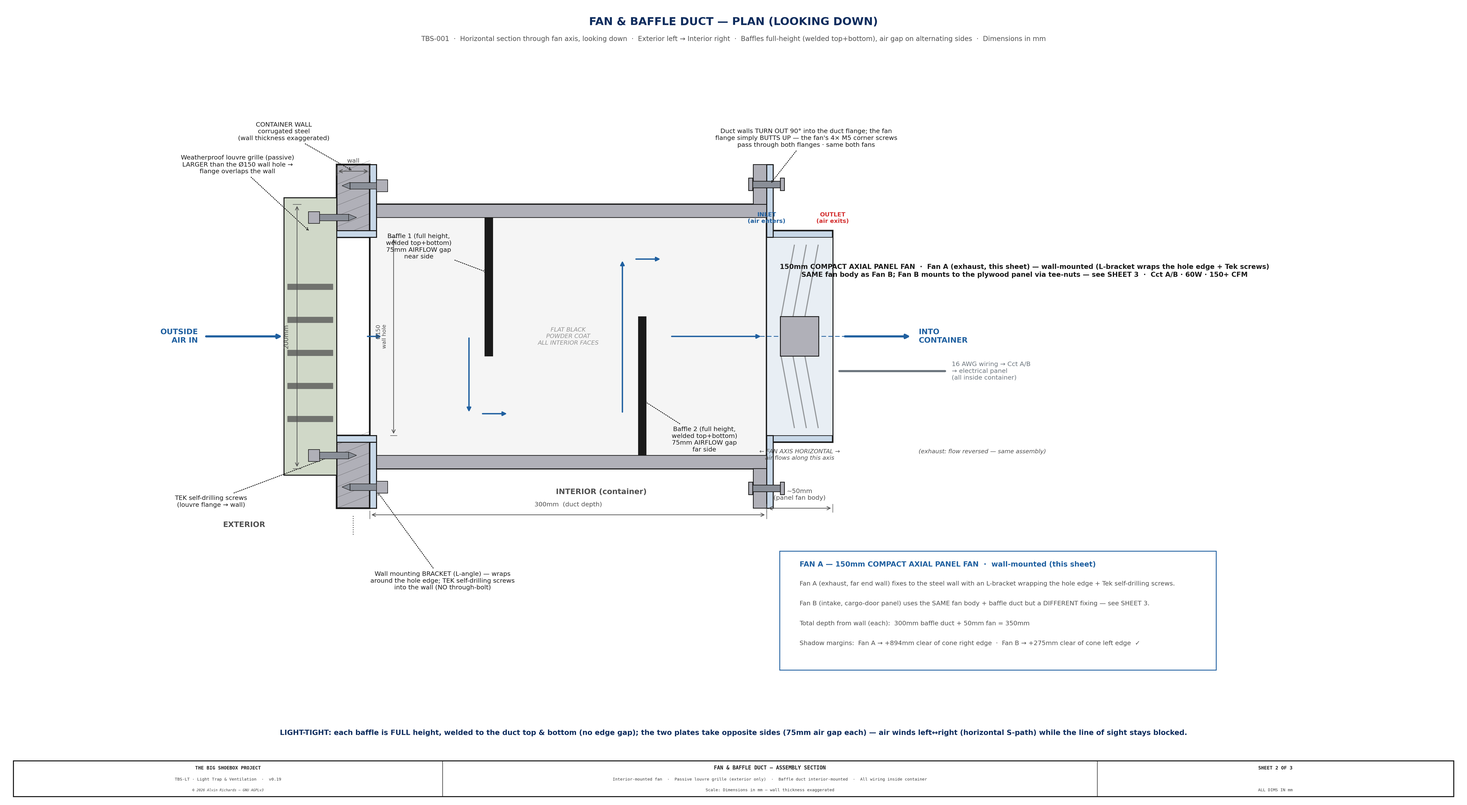
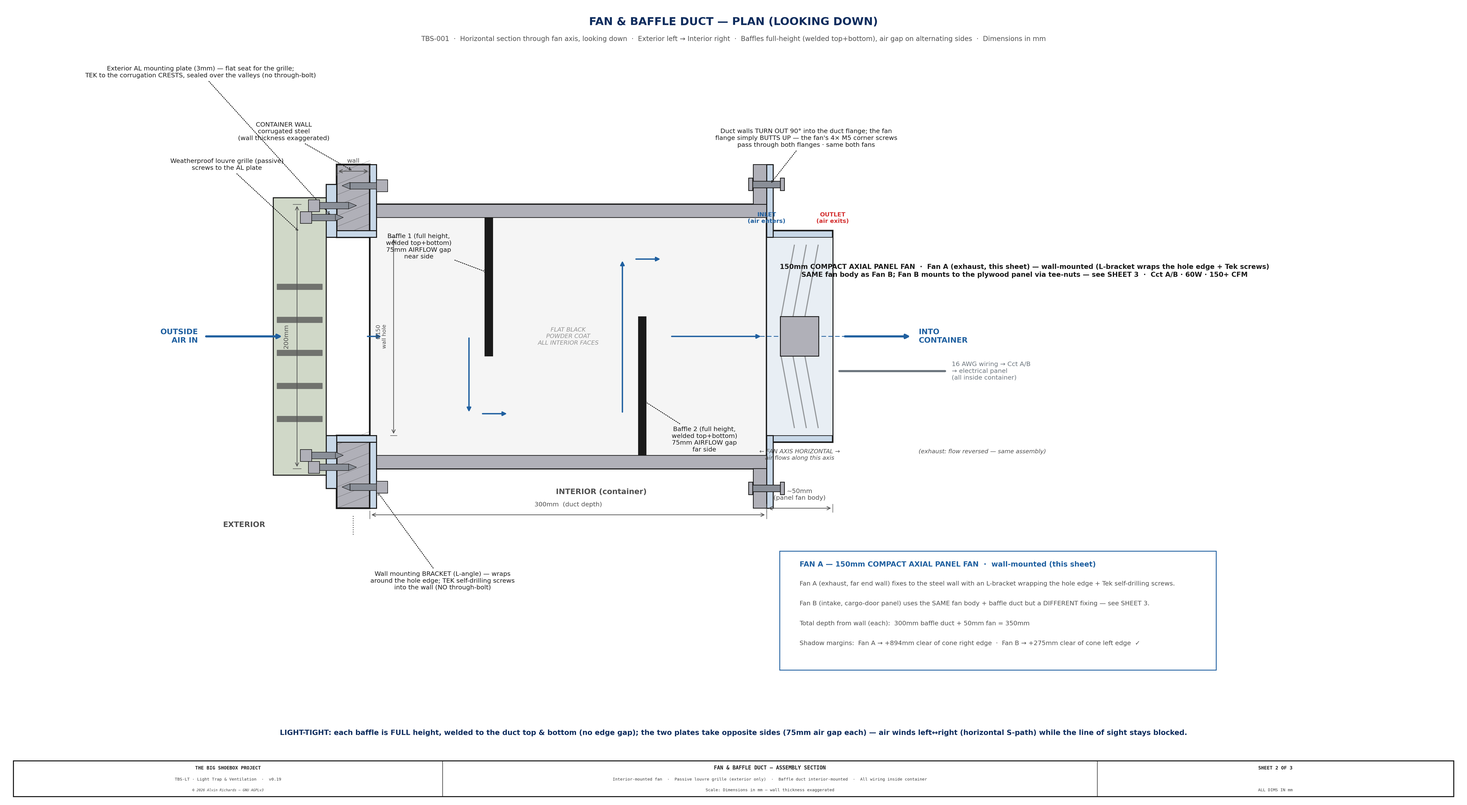
Ventilation: add Fan-A grille exterior AL mounting plate (corrugated-wall fix)
A flat louvre grille can't seat on the corrugated end wall, so add a flat ~3mm
aluminum plate on the exterior face the grille mounts to: the plate is TEK
self-drilled to the corrugation crests and sealed over the valleys (no
through-bolt), giving the grille a flat seat. Fan B is unchanged (it mounts to
flat plywood). Registry part fan-grille-al-plate (+$15/$30 ventilation);
cascaded through costing (§5b + EXPECTED ventilation 783/800/818 + grand_total
27,809/32,674/39,569), the ventilation report §4.2, and sheet 2 (drawn as a
frame open at the Ø150 hole, grille screwed to it, plate TEK'd to the crests).
All gates pass.

Changed region(s): [[0.1868, 0.2177, 0.249, 0.622], [0.1245, 0.1866, 0.1868, 0.2177]]

diff --git a/src/generators/costing.py b/src/generators/costing.py
@@ -355,6 +355,7 @@ VENTILATION = [
     point("Duct collar + hose clamp", 16), # 2026-07-27: Master Flow DSCF8 collar $8.98 + McMaster 4866N35 clamp $7.25
     point("Weatherproof duct cap", 12), # 2026-07-27: Master Flow 8DC $11.98
     LineItem("Weatherproof louvre grilles ×2 (Fan A + Fan B exterior vents)", 20, 30, 40, "2026-11-17: new — 6in louvered weatherproof wall vents on each fan's exterior face (ventilation §4.2/§4.3/§4.4, the fans' only external component); named in prose, absent from the registry. SKU pending."),
+    LineItem("Fan-A grille mounting plate (3mm Al over the corrugated wall + TEK + sealant)", 15, 22, 30, "2026-11-18: new — a flat Al plate the Fan-A louvre grille mounts to (a flat grille can't seat on corrugations); TEK-screwed to the corrugation crests + sealed over the valleys. Fan B mounts to flat plywood (no plate). SKU pending."),
     point("Deutsch DT 2-pin connectors (Fan B flex ×2)", 8),
     point("16 AWG coiled cable (Fan B flex)", 26),
     point("Cooler external power cable", 20),
@@ -1062,7 +1063,7 @@ EXPECTED = { # the figures the docs are reconciled to (this session)
     "rich": {"chem": 2735, "total": 3040, "per_print": 61}, # 2026-10-22: 9.19 m² derived. Artcraft bulk — AmFe $64.20/kg + ferricyanide $51.01/kg
     # 2026-10-22: chem tiers rescaled to the 9.19 m2 (99 sqft) active plane (now derived from IMAGE_AREA_M2) -> grand total -$20/$30/$60.
     # 2026-10-27: +$12/$16/$20 — beam-penetration EPDM foam light-seals (ll-beam-notch-seal, 4 notches).
-    "grand_total": (27794, 32659, 39554), # 2026-11-17c: −$5 — walkway std-bracket count 13→11 propagated to its nuts/washers (pre-existing stale fastener count). 2026-11-17b: +$67/$108/$150 — report-reconciliation sweep backfilled 5 parts named in reports but absent from the registry: spray manifold clips + IBC-2 Blue float switch + IBC bar-end L-cleats (§5), fan louvre grilles ×2 (§5b), right-walkway grating-bearer L-angle (§6a). 2026-11-17: +$40 — inverter DC protection backfilled into the electrical registry (was in §8 BOM, missing from parts.py). 2026-11-16b: −$32 — AWG rationalization (single 12 AWG distribution). 2026-11-16: +$5 — Circuit-C split (B′): master pump switch → 2-pole DPST. 2026-11-13: +$9 — floor-anchor self-driller re-sourced (F14C325FDC → McMaster 90822A536, $1.30 ea was $1.02): walkway +$6, ibc-frame +$3. 2026-11-09: −$7 — M8 fastener standardization (film −$8 / shelf +$1): M8×25 304 SS onto one SKU 92314A711 (50-pack, retired steel dup 91310A535), M8 flat washer onto 98689A673 (retired dup 91166A270). 2026-11-07: +$12 — M12×30 foot/leg bolts (×36) firmed to McMaster 91280A716 ($0.85 ea, was ~$0.50): ibc-frame +$5, walkway +$7. # 2026-11-06b: apron draw latches 8 installed as ONE 10-pack = $9.85 total (10-pack price). 2026-11-06: −$83 panel apron latch 1619A74 cam → 1590A13 draw latch. 2026-11-06: −$83/$83/$83 panel apron latch 1619A74 cam → 1590A13 draw latch (4× $9.85). 2026-11-05b: +$74/$62/$50 panel apron latch → reuse 1619A74 (handle INSIDE, convention-matched; 2D+3D reconciled). 2026-11-05: −$11/$20/$26 panel apron fold-down → pull-out corner apron (Sheet 16 redesign). 2026-10 reconcile: −$79/$102/$125 (walkway std-bracket count 13→11 corrected to the 3D). 2026-10-12: +$138/$204/$270 — floor anchoring redesigned to self-tapped sub-plates (strongbacks) for the IBC feet (+$46/$68/$90) + the walkway floor-legs (+$113/$156/$199): container-floor cross-members aren't standardized, so feet/legs bolt to a plate that self-taps into whatever members it spans. 2026-10-10: +$21/$21/$20 — IBC J1 foot anchors reconciled to 4× M12/foot (owner-confirmed) + spray $1 rounding realign. 2026-10-07: +$20/$36 electrical conduit-support-clips. # 2026-10-07: +$27 led-channel 6→7 (Circuit-G 4th run over the tray center). 2026-10-04: +$1/$2/$2 — P-clips 85→87 (corridor blue frame clips). 2026-10-03c: +$3/$5/$6 — P-clips 80→86 (drain-riser spine extended toward the end wall). 2026-10-03b: +$19/$26/$32 — P-clips 46→80 (pinhole-panel audit). 2026-10-03: +$4/$5/$7 — P-clips 39→46 (3rd clamp rows on the raised corridor boards + P-01 straddle clamps). (earlier cost history, 2026-09 and before: RELEASE.md + git log).
+    "grand_total": (27809, 32674, 39569), # 2026-11-18: +$15 — Fan-A grille mounting plate (3mm Al over the corrugation; §5b band derives from the ventilation low). 2026-11-17c: −$5 — walkway std-bracket count 13→11 propagated to its nuts/washers (pre-existing stale fastener count). 2026-11-17b: +$67/$108/$150 — report-reconciliation sweep backfilled 5 parts named in reports but absent from the registry: spray manifold clips + IBC-2 Blue float switch + IBC bar-end L-cleats (§5), fan louvre grilles ×2 (§5b), right-walkway grating-bearer L-angle (§6a). 2026-11-17: +$40 — inverter DC protection backfilled into the electrical registry (was in §8 BOM, missing from parts.py). 2026-11-16b: −$32 — AWG rationalization (single 12 AWG distribution). 2026-11-16: +$5 — Circuit-C split (B′): master pump switch → 2-pole DPST. 2026-11-13: +$9 — floor-anchor self-driller re-sourced (F14C325FDC → McMaster 90822A536, $1.30 ea was $1.02): walkway +$6, ibc-frame +$3. 2026-11-09: −$7 — M8 fastener standardization (film −$8 / shelf +$1): M8×25 304 SS onto one SKU 92314A711 (50-pack, retired steel dup 91310A535), M8 flat washer onto 98689A673 (retired dup 91166A270). 2026-11-07: +$12 — M12×30 foot/leg bolts (×36) firmed to McMaster 91280A716 ($0.85 ea, was ~$0.50): ibc-frame +$5, walkway +$7. # 2026-11-06b: apron draw latches 8 installed as ONE 10-pack = $9.85 total (10-pack price). 2026-11-06: −$83 panel apron latch 1619A74 cam → 1590A13 draw latch. 2026-11-06: −$83/$83/$83 panel apron latch 1619A74 cam → 1590A13 draw latch (4× $9.85). 2026-11-05b: +$74/$62/$50 panel apron latch → reuse 1619A74 (handle INSIDE, convention-matched; 2D+3D reconciled). 2026-11-05: −$11/$20/$26 panel apron fold-down → pull-out corner apron (Sheet 16 redesign). 2026-10 reconcile: −$79/$102/$125 (walkway std-bracket count 13→11 corrected to the 3D). 2026-10-12: +$138/$204/$270 — floor anchoring redesigned to self-tapped sub-plates (strongbacks) for the IBC feet (+$46/$68/$90) + the walkway floor-legs (+$113/$156/$199): container-floor cross-members aren't standardized, so feet/legs bolt to a plate that self-taps into whatever members it spans. 2026-10-10: +$21/$21/$20 — IBC J1 foot anchors reconciled to 4× M12/foot (owner-confirmed) + spray $1 rounding realign. 2026-10-07: +$20/$36 electrical conduit-support-clips. # 2026-10-07: +$27 led-channel 6→7 (Circuit-G 4th run over the tray center). 2026-10-04: +$1/$2/$2 — P-clips 85→87 (corridor blue frame clips). 2026-10-03c: +$3/$5/$6 — P-clips 80→86 (drain-riser spine extended toward the end wall). 2026-10-03b: +$19/$26/$32 — P-clips 46→80 (pinhole-panel audit). 2026-10-03: +$4/$5/$7 — P-clips 39→46 (3rd clamp rows on the raised corridor boards + P-01 straddle clamps). (earlier cost history, 2026-09 and before: RELEASE.md + git log).
     "walkway": (2155, 2619, 3107), # 2026-11-17b: −$5 — std-bracket count 13→11 propagated to its nuts/washers (nuts/split 59→53, flat 236→212). 2026-11-17: +$25/$50/$75 — right-walkway grating-bearer L-angle (walkway-right-bearer; §8.1, absent from cut list + registry). 2026-11-13: +$6 — floor-anchor self-driller re-sourced (F14C325FDC → McMaster 90822A536, #14×3½ 410 SS $1.30 ea, was $1.02). 2026-11-07: +$7 — 20× M12×30 leg bolts firmed (91280A716 $0.85 ea). # 2026-10 reconcile: −$79/$102/$125 — std cantilever brackets corrected 13→11 (3 near + 8 far; the 5 near-wide bays are widened brackets) + reinf ×13→×11 + M12 ×59→53, matching the 3D station math. 2026-10-12: +$113/$156/$199 — floor-leg anchoring → one continuous self-tapped sub-plate (strongback) + self-drilling TEKs + leg→plate bolts (replaces 20× #14 floor screws; cross-member pitch not standardized). 2026-09-07: +$9 — M12 wall bolts standardized to ×70 (single zinc wall length). 2026-08-19: −$116/$125/$135 — IBC-owned center arms + J6 hardware + half-lap screws moved to ibc-frame (§5), per the ownership boundary. 2026-08-16d: +$55/+$43/+$31 — arm FIRM price (Metal Supermarkets $91.32/36in cut vs the $36-60 est). 2026-08-16c: −$10/−$13/−$15 — J6 4→2 bolts/arm (central column) less 4 M12×100 + 4 crush sleeves. 2026-08-16b: +$2/+$3/+$4 — 4× #14 TEK half-lap hold-down screws. 2026-08-16: +$62/+$85/+$108 — RWK center arms hollow tube → SOLID 2×1 flat bar (split out) + J6 end-plate hardware (8× M12×100 + 4 plates + 8 crush sleeves) less 4 arm-clamp M12×70. # 2026-08-07 (#26): +$107/+$123 — RWK frame 2×⅞ (non-stock) → 2×1×0.120 real MetalsDepot price + floor-leg arms 2×1. # 2026-07-23b: bump extended 2nd rib toward IBC — 1 near bracket std->widened (+$12/$22)
     "water": (6952, 7633, 8320), # 2026-11-17: +$22/$38/$55 — spray manifold clips +$8/$11/$15, IBC-2 float switch +$8/$14/$20, IBC bar-end L-cleats +$6/$13/$20 (all named in-report, absent from the registry). 2026-11-13: +$3 — IBC floor-anchor self-driller re-sourced (F14C325FDC → McMaster 90822A536). 2026-11-07: +$5 — 16× M12×30 IBC foot bolts firmed (91280A716 $0.85 ea). # 2026-10-12: +$25/$48/$71 — IBC J1 floor anchoring → self-tapped sub-plate + self-drilling TEKs + foot→plate bolts (replaces the M12×70 floor thru-bolts; cross-member pitch not standardized). 2026-10-10: +$21/$21/$20 — IBC J1 foot anchors #14 self-driller → M12×70 thru-bolt + nuts/washers (owner-confirmed 4× M12/foot) + spray high $1 rounding realign. 2026-10-04: +$1/$2/$2 — pipe-support-clips 85→87 (corridor blue frame clips: suction loop-back + supply-trunk mouth crossing). 2026-10-03c: +$3/$5/$6 — pipe-support-clips 80→86 (spine extended toward the end wall → end-port clips). 2026-10-03b: +$19/$26/$32 — pipe-support-clips 46→80 (pinhole-panel audit). 2026-10-03: +$4/$5/$7 — pipe-support-clips 39→46 (far+near-lower each gained a 3rd clamp row on the raised corridor boards, +2 straddling the P-01 suction valve). 2026-09-07: +$2 ibc-frame — J3 wall-hanger bolts ×65→×70 (single zinc wall length). 2026-09-07: filter ply-mount 5/16→1/4 firmed (screw 90272A552 + washer 90850A100, −$10 net) + #14 TEK firmed (90822A620). 2026-08-19: +$116/$125/$135 ibc-frame — the IBC-owned walkway center arms + J6 connection reconciled from walkway §6a. 2026-08-18b: +$10/$15/$20 ibc-frame (16 L-cleat nut backing plates). 2026-08-18: −$16/$15/$16 ibc-frame (J2 corridor cleat → L-angle + 1 horizontal bolt). ... (earlier cost history: RELEASE.md + git log).
     "container": (2300, 3300, 4300),
@@ -1074,7 +1075,7 @@ EXPECTED = { # the figures the docs are reconciled to (this session)
     "optics": (35, 52, 70), # 2026-09-23: retired the standard Ø600 pinhole/lens plate (superseded by the Ø80-carrier disc holder). §3 Optics is now the pinhole-WALL interface only (wall-frame adapter + dark slide); the pinhole element + retaining ring + mount bolts moved to front-board (fixes the pinhole double-count).
     "film": (4090, 4316, 4548), # 2026-11-09: −$8 — M8×25 fastener standardization: SS SKU 92314A711 pack 25→50 (per-each halves, −$7) + the ×8 right-rail fixing merged onto it (retired dup steel 91310A535, −$1). 2026-09-07: +$4 — wall-sandwich bolts ×65→×70 (single zinc wall length). 2026-09-06: −$1 — M8 J1/J2 bolt firmed M8×20→M8×25 (92314A711, cheaper pack). 2026-09-06: +$2 — M8 J1/J2 → through-bolt + nut (32 M8 nuts added). 2026-09-06: +$11 — M4 nut/M8 bolt/M8 flat washer SKUs firmed (up from est). 2026-09-06: +$40 — corner mechanism fasteners itemized (M4 cam-clamp ×24 + M8 J1/J2 ×32 + ACM→frame TEK ×30; several SKUs est pending). 2026-09-05: +$32 — skate axle-saddle retention itemized (16× 8992K794 saddles + 32× M6×20 91287A137 + 32× M6 nyloc; retires the M5 onto the shared M6 family). 2026-09-05: −$76 to −$135 — corner L-plate re-spec'd from a formed ¼ 6×8 plate ($58.90 ea firm ×4=$236) to stock 4×4×¼ 304 angle cut to length ($25–40/pc, re-quote); cheaper, no press-brake. 2026-08-20: −$161 — film-plane wall-seat saddles reconciled 6→4 (far-LEFT ends land on the pivot post; back-plate lengthened for the gusset; +2 far-left flange brackets w/ 8 M12). 2026-08-13: −1 — the M8 wall-fixing (bolt-m8-fixing) moved to the firm 304 A2 SKU 91310A535 $13.91/50, below the retired zinc placeholder. 2026-08-13: Belden SSNBUJ750x3/8KB needle-bearing keyed+booted U-joint (Grainger 41D816 $252.13 ea) replaces the plain UJ-SS750x375 + separate 806VF1 boot -> +~$403. # 2026-08-10 (corner blueprint): +$135 — cross-slide bars grown ~250→~345/365mm to hold ±40°/±28° (2× 8ft 304 bar, was 1×). 2026-08-01: corner L-plates firm Metal Supermarkets $58.90 ea ×4 = $236 (was $152-208 est). 2026-07-31: Ruland->Belden U-joint -$653 # 2026-07-27: blackout poly → Film-Gard 10ft 4-mil $40.12 (was 6-mil $66–70, −$26/−$30); Gorilla tape firm $9.94 ×6; saddle M8 thumbscrews ×12 McMaster $11.80. (2026-07-22: clamp → off-the-shelf nylon spring clamps + HDPE filler.)
     "front-board": (FRONT_BOARD_MID, FRONT_BOARD_MID, FRONT_BOARD_HIGH), # pinhole disc holder BOM — reconciles to parts.system_total('front-board'); standalone module (not a numbered SECTION), so not in _SECTION_SYSTEMS.
-    "ventilation": (768, 778, 788), # 2026-11-17: +$20/$30/$40 — weatherproof louvre grilles ×2 (fan-louvre-grille; §4.2/§4.3/§4.4, absent from the registry). 2026-07-27: canopy 1" EMT firm ($206 — conduit $21.86×6, couplings $1.45×8, flange 4-pack $16.29, Halex 94510 elbows $11.85×4); evap cooler MC18MT $109; duct collar+clamp $16.23.
+    "ventilation": (783, 800, 818), # 2026-11-18: +$15/$22/$30 — Fan-A grille mounting plate (3mm Al over the corrugation + TEK + sealant; a flat grille can't seat on corrugations). 2026-11-17: +$20/$30/$40 — weatherproof louvre grilles ×2 (fan-louvre-grille; §4.2/§4.3/§4.4, absent from the registry). 2026-07-27: canopy 1" EMT firm ($206 — conduit $21.86×6, couplings $1.45×8, flange 4-pack $16.29, Halex 94510 elbows $11.85×4); evap cooler MC18MT $109; duct collar+clamp $16.23.
     "power": (3429, 3472, 3515), # 2026-11-17: +$40 inverter DC protection (40A ANL fuse + holder + dedicated DC disconnect) backfilled — was in electrical-report §8 but missing from parts.py (required by safety-report §7.6 rule 4). 2026-11-16b: −$32 AWG rationalization (single 12 AWG distribution gauge). 2026-11-16: +$5 Circuit-C split (B′) — master pump switch → 2-pole DPST ($7.99→$12.99). 2026-10-07: +$20/$36 conduit-support-clips (45 electrical P-clips/saddles). # 2026-10-07: +$27 led-channel 6→7 (Circuit-G 4th run, tray-center; strip stays 2 reels, rewire 12AWG/15A cost-neutral). 2026-09-30: −$68 EP backboard now nests on the chem-shelf UV-white sheet (no own sheet). 2026-07-31: mppt-charge-fuse itemized (Powerwerx 5005 block + ANL60), dielectric-grease $8.99, powerpole housings $0.55. 2026-07-28: external power panel FINAL — fabricated flanged wall-penetration box + flashing (weatherproof components exposed on the face, wired from inside), disconnect relocated to the EP. McMaster IP enclosure + wall gland retired (−$229/−$182). §5a authoritative subtotal
 }
 

diff --git a/src/generators/generate_ventilation_diagram.py b/src/generators/generate_ventilation_diagram.py
@@ -490,24 +490,34 @@ def draw_sheet2():
         (WALL_X + WALL_T / 2, wz1 - 5), (WALL_X - 40, wz1 + 25))
     draw_dim_v(ax, WALL_X + WALL_T + 18, HB, HT, f"Ø{FAN_DIAM}\nwall hole", offset=8, fs=6.5, zorder=10, color=C_DIM)
 
-    # ── Weatherproof louvre grille — LARGER than the Ø150 hole so its flange overlaps the wall; fixed
-    #    with self-drilling TEK screws through the flange margins into the wall (passive, no fan) ──
-    GL_MARG = 30                                             # flange margin beyond the hole (for the Tek screws)
+    # ── Exterior AL mounting plate — a flat 3mm aluminum plate the louvre grille mounts to (a flat
+    #    grille can't seat on corrugations). TEK self-drilled to the corrugation CRESTS + sealed over the
+    #    valleys (no through-bolt — a corrugated wall can't be cleanly bolted through). ──
+    PLT_T   = 8                                              # plate thickness (exaggerated, real ~3mm)
+    GL_MARG = 30                                             # flange / plate margin beyond the hole
+    PLT_Z   = HB - GL_MARG - 10                              # plate spans a little beyond the grille
+    PLT_H   = (HT + GL_MARG + 10) - PLT_Z
+    for z0, z1 in [(PLT_Z, HB), (HT, PLT_Z + PLT_H)]:       # plate FRAME — open at the Ø150 hole for airflow
+        draw_rect(ax, WALL_X - PLT_T, z0, PLT_T, z1 - z0, fc=C_ALUM, lw=1.3, zorder=5)
+    for tz in (PLT_Z + 16, PLT_Z + PLT_H - 16):             # TEK: plate → wall CRESTS (sealed over valleys)
+        tek_screw(ax, WALL_X - 2, tz, 22, d=5, head=-1)
+    # ── Weatherproof louvre grille — screws to the flat AL plate (LARGER than the Ø150 hole) ──
+    GX   = WALL_X - PLT_T                                    # grille mounts on the plate's exterior face
     GL_Z = HB - GL_MARG                                      # louvre bottom (below the hole)
-    GL_H = (HT + GL_MARG) - GL_Z                             # louvre height > hole → flange overlaps the wall
-    draw_rect(ax, WALL_X - GL_W, GL_Z, GL_W, GL_H, fc="#D0D8C8", lw=1.2, zorder=6)
+    GL_H = (HT + GL_MARG) - GL_Z                             # louvre height > hole
+    draw_rect(ax, GX - GL_W, GL_Z, GL_W, GL_H, fc="#D0D8C8", lw=1.2, zorder=6)
     slat_h = 4
     for i in range(5):                                       # slats across the OPENING (hole) region
         slat_z = HB + (HT - HB) / 6 * (i + 0.5)
         ax.add_patch(mpatches.FancyBboxPatch(
-            (WALL_X - GL_W + 3, slat_z - slat_h / 2), GL_W - 6, slat_h,
+            (GX - GL_W + 3, slat_z - slat_h / 2), GL_W - 6, slat_h,
             boxstyle="round,pad=0.3", fc=C_DIM, ec="none", zorder=7, alpha=0.75))
-    for tz in (GL_Z + GL_MARG / 2, GL_Z + GL_H - GL_MARG / 2):   # TEK screws through the flange → wall
-        tek_screw(ax, WALL_X - 2, tz, 22, d=5, head=-1)
-    ann(ax, "Weatherproof louvre grille (passive)\nLARGER than the Ø150 wall hole →\nflange overlaps the wall",
-        (WALL_X - GL_W / 2, HT + 4), (WALL_X - GL_W / 2 - 55, HT + 55))
-    ann(ax, "TEK self-drilling screws\n(louvre flange → wall)",
-        (WALL_X - 2, GL_Z + GL_MARG / 2), (WALL_X - 95, GL_Z - 20))
+    for tz in (GL_Z + GL_MARG / 2, GL_Z + GL_H - GL_MARG / 2):   # TEK: grille flange → AL plate
+        tek_screw(ax, GX - 2, tz, 18, d=5, head=-1)
+    ann(ax, "Weatherproof louvre grille (passive)\nscrews to the AL plate",
+        (GX - GL_W / 2, HT + 4), (GX - GL_W / 2 - 55, HT + 55))
+    ann(ax, "Exterior AL mounting plate (3mm) — flat seat for the grille;\nTEK to the corrugation CRESTS, sealed over the valleys (no through-bolt)",
+        (WALL_X - PLT_T / 2, HT + 16), (WALL_X - PLT_T - 95, 450))
 
     # ── Baffle duct housing — the top & bottom walls TURN OUT 90° at the fan end to form the duct flange ──
     draw_rect(ax, DX, DZ, DD, DH, fc="#F5F5F5", lw=2.0, zorder=3)

diff --git a/src/generators/parts.py b/src/generators/parts.py
@@ -149,6 +149,9 @@ PARTS: list[Part] = [
     Part("fan-louvre-grille", "Weatherproof louvre grille, 6in (Fan A + Fan B exterior vents)", "ducting-ventilation",
          "ventilation", 2, "ea", 10, 20, "Home Depot", "Amazon",
          spec="6in (150mm) louvered weatherproof wall vent with insect screen on the exterior face of each fan penetration — the fans' only external component (ventilation-report §4.2/§4.3/§4.4). ×2 (Fan A + Fan B). SKU pending — source a 6in louvered weatherproof vent cover; $10–20 ea est, confirm at order."),
+    Part("fan-grille-al-plate", "Fan-A grille mounting plate — 3mm aluminum over the corrugated wall", "ducting-ventilation",
+         "ventilation", 1, "ea", 15, 30, "Metal Supermarkets", "Amazon",
+         spec="Flat ~250×250×3mm 6061 aluminum plate on the EXTERIOR face at the Fan-A sealed-end-wall penetration (Fan B mounts to flat plywood — no plate needed). A flat louvre grille can't seat on corrugations, so the plate gives it a flat mounting face: it is #14 TEK self-drilled to the corrugation CRESTS with a weatherproof silicone/flashing bead bedding it over the valleys (no through-bolt — the corrugated wall can't be cleanly bolted through), and the grille then screws to the plate. Est $15–30 incl. TEK screws + sealant; SKU pending — confirm at order."),
     Part("deutsch-dt-2pin", "Deutsch DT 2-pin connectors (Amphenol AT2PS-CKIT)", "electrical-distribution",
          "ventilation", 2, "set", 4, 4, "Waytek Wire", part_no="AT2PS-CKIT", url="https://www.waytekwire.com/product/amphenol-sine-systems-at2ps-ckit-2-pin",
          spec="Amphenol AT2PS-CKIT 2-pin connector kit (DT-compatible), IP67 — Fan B flex connector (×2 sets). Same part as deutsch-dt-2pin-elec. $4/set est — confirm at order."),

diff --git a/docs/project-cost-breakdown.md b/docs/project-cost-breakdown.md
@@ -20,7 +20,7 @@
 | **4. Film plane mechanism (4-corner U-channel + acetal skate + U-joint, incl. wall-seat saddles)** | $4,090 | $4,316 | $4,548 |
 | **5. Processing water system (incl. tray, spray bar, IBC stacking frame)** | $6,952 | $7,633 | $8,320 |
 | **5a. Power & electrical system (solar · 1× LiFePO4 · MPPT · distribution · lighting · protection · master pump switch)** | $3,429 | $3,472 | $3,515 |
-| **5b. Ventilation & cooling system (2 fans · evap cooler **+ 12V→120V inverter** · light-safe baffle-duct fab · shade canopy)** | $768 | $828 | $918 |
+| **5b. Ventilation & cooling system (2 fans · evap cooler **+ 12V→120V inverter** · light-safe baffle-duct fab · shade canopy)** | $783 | $843 | $933 |
 | **6. Housed revolving-door light lock (plastic-skin custom fabrication)** | $3,156 | $3,667 | $4,175 |
 | **6a. Perimeter walkway (4 sections + drum-exit punch-out)** | $2,155 | $2,619 | $3,107 |
 | **6b. Panel swing pivot + fixed door frame (Ø89 post + bearings + cage + wall stays + rail saddles)** | $1,250 | $1,490 | $1,730 |
@@ -29,7 +29,7 @@
 | **7. Printmaking — 50 prints (cyanotype; Low=Lean, Mid=Standard, High=Rich tier)** | $1,230 | $1,680 | $3,040 |
 | **8. Transportation (per deployment)** | $300 | $750 | $2,000 |
 | **9. Licenses & permits** | $220 | $790 | $1,620 |
-| **TOTAL (excl. own transport, CDL, lens)** | **$27,794** | **$32,659** | **$39,554** |
+| **TOTAL (excl. own transport, CDL, lens)** | **$27,809** | **$32,674** | **$39,569** |
 <!-- END costing:scenario -->
 
 *Line 7 (cyanotype printmaking) is now re-summed into the TOTAL on the **Mike Ware New Cyanotype** chemistry (ferric ammonium oxalate) + corrected ~$300 substrate: **Low = Lean ⅓-Ware ($1,250), Mid = Standard ½-Ware ($1,710), High = Rich full-Ware ($3,100)** — matching §7.1 and the master shopping list §9. The tier is pinned by the [Sensitizer Trials](sensitizer-trials.md).*
@@ -511,7 +511,7 @@ Permit requirements vary by jurisdiction. Estimates below are based on general k
 | Film plane mechanism (4-corner U-channel + U-joint, incl. wall-seat saddles) | $4,090 |
 | Water system (incl. processing tray, spray bar, IBC stacking frame) | $6,952 |
 | Power & electrical system (solar · 1× LiFePO4 · distribution · lighting · protection · master pump switch) | $3,429 |
-| Ventilation & cooling system (2 fans · evap cooler + inverter · light-safe baffle-duct fab · shade canopy) | $768 |
+| Ventilation & cooling system (2 fans · evap cooler + inverter · light-safe baffle-duct fab · shade canopy) | $783 |
 | Revolving drum light trap (plastic-skin custom fabrication) | $3,156 |
 | Perimeter walkway (4 sections, removable, GRP grating) | $2,155 |
 | Panel swing pivot + fixed door frame (Ø89 pivot + bearings + cage + wall stays + saddles + door frame) | $1,250 |
@@ -520,7 +520,7 @@ Permit requirements vary by jurisdiction. Estimates below are based on general k
 | Cyanotype chemistry + substrate (50 prints) | $1,230 |
 | Transport per deployment (local) | $400 |
 | Permits (minimal) | $50 |
-| **Scenario A total** | **~$27,224** |
+| **Scenario A total** | **~$27,239** |
 <!-- END costing:scenario-a -->
 
 ### Scenario B — Recommended build, regional deployment
@@ -534,7 +534,7 @@ Permit requirements vary by jurisdiction. Estimates below are based on general k
 | Film plane mechanism (4-corner U-channel + U-joint + wall-seat saddles) | $4,316 |
 | Water system (incl. processing tray, spray bar, IBC stacking frame) | $7,633 |
 | Power & electrical system (solar · 1× LiFePO4 · distribution · lighting · protection · master pump switch) | $3,472 |
-| Ventilation & cooling system (2 fans · evap cooler + inverter · light-safe baffle-duct fab · shade canopy) | $828 |
+| Ventilation & cooling system (2 fans · evap cooler + inverter · light-safe baffle-duct fab · shade canopy) | $843 |
 | Revolving drum light trap (plastic-skin custom fabrication) | $3,667 |
 | Perimeter walkway (4 sections, removable, GRP grating) | $2,619 |
 | Panel swing pivot + fixed door frame (Ø89 pivot + bearings + cage + wall stays + saddles + door frame) | $1,490 |
@@ -544,7 +544,7 @@ Permit requirements vary by jurisdiction. Estimates below are based on general k
 | Rodenstock Apo-Ronar 1,200mm lens | $800 |
 | Transport per deployment (50–100 miles) | $900 |
 | Permits (typical public land) | $300 |
-| **Scenario B total (excl. CDL)** | **~$32,969** |
+| **Scenario B total (excl. CDL)** | **~$32,984** |
 <!-- END costing:scenario-b -->
 
 ### Scenario C — Full production, own transport, CDL
@@ -552,11 +552,11 @@ Permit requirements vary by jurisdiction. Estimates below are based on general k
 <!-- BEGIN costing:scenario-c -->
 | Item | Cost |
 |------|------|
-| Scenario B build (less the $900 commercial transport, replaced here by owned transport) | $32,069 |
+| Scenario B build (less the $900 commercial transport, replaced here by owned transport) | $32,084 |
 | CDL Class A training + medical + DMV | $4,500 |
 | QuickLoadz self-loading trailer | $35,000 |
 | Ford F-350+ pickup (if needed) | $50,000–$80,000 (new) |
-| **Scenario C total** | **~$121,569–$151,569** |
+| **Scenario C total** | **~$121,584–$151,584** |
 <!-- END costing:scenario-c -->
 
 *Own transport only makes sense if the camera will be deployed frequently. For fewer than 60 moves, commercial hire is cheaper.*

diff --git a/docs/cost-analysis-report.md b/docs/cost-analysis-report.md
@@ -11,7 +11,7 @@ capital from recurring/consumable spend, and ranks the realistic savings levers.
 
 All figures are the **mid-column** estimates from the
 [Cost Breakdown](project-cost-breakdown.md) (the itemized source of truth); the build
-mid-total is **~<!-- BEGIN costing:ca-mid-total -->$32,659<!-- END costing:ca-mid-total -->**.
+mid-total is **~<!-- BEGIN costing:ca-mid-total -->$32,674<!-- END costing:ca-mid-total -->**.
 
 ---
 
@@ -24,13 +24,13 @@ recurs or is consumed — savings strategy is different for each.
 <!-- BEGIN costing:ca-buckets -->
 | Bucket | Mid | What it is |
 |---|--:|---|
-| **Capital build** (one-time hardware) | **$29,439** | The systems you build once — this is where build-savings live |
+| **Capital build** (one-time hardware) | **$29,454** | The systems you build once — this is where build-savings live |
 | Consumable (per 50-print batch) | $1,680 | Cyanotype chemistry + substrate (Standard ½-Ware) — recurs every batch |
 | Recurring (per deployment) | $750 | Commercial-hire transport |
 | Soft / regulatory | $790 | Licenses & permits |
 <!-- END costing:ca-buckets -->
 
-Build-savings work on the **<!-- BEGIN costing:ca-capital -->$29,439<!-- END costing:ca-capital --> capital**. The <!-- BEGIN costing:ca-consumable -->$1,680<!-- END costing:ca-consumable --> consumable is attacked
+Build-savings work on the **<!-- BEGIN costing:ca-capital -->$29,454<!-- END costing:ca-capital --> capital**. The <!-- BEGIN costing:ca-consumable -->$1,680<!-- END costing:ca-consumable --> consumable is attacked
 separately (bulk chemistry, cheaper substrate) because it repeats every batch and
 quickly dominates lifetime cost.
 
@@ -51,7 +51,7 @@ Capital systems ranked by mid cost:
 | **Perimeter walkway** | $2,619 | 9% | GRP grating + steel cantilevers |
 | **Swing pivot** | $1,490 | 5% | Pivot post + bearings + cage + fixed RHS door frame |
 | **Hinged panel structure** | $1,282 | 4% | Stepped frame + HDPE skins + Al core + EPDM + latches + B2 bay |
-| **Ventilation & cooling** | $828 | 3% | Fans + cooler + inverter + baffle-duct fab + canopy |
+| **Ventilation & cooling** | $843 | 3% | Fans + cooler + inverter + baffle-duct fab + canopy |
 | **Interior conversion** | $505 | 2% | Insulation, sealing, safelight |
 | **Chemistry prep shelf** | $275 | 0.9% | Fold-down UV-white ply board + hinge/stays + tap extension |
 | **Optics — pinhole** | $52 | 0.2% | Trivial (it is a pinhole) |
@@ -74,7 +74,7 @@ Ranked by dollar potential and ease. Status is updated as levers are actioned.
 | 4 | **Solar 3 → 2 panels** (if the power budget allows) | Power | ~<!-- BEGIN costing:ca-lever-solar -->$133<!-- END costing:ca-lever-solar --> | Easy | Available — computed (drop 1× 200W panel) |
 | 5 | **Valves / fittings value-engineering** | Water | ~<!-- BEGIN costing:ca-lever-valves-low -->$100<!-- END costing:ca-lever-valves-low -->–<!-- BEGIN costing:ca-lever-valves-high -->$200<!-- END costing:ca-lever-valves-high --> | Medium | Available |
 
-After the material decisions, the only still-**available** build-savings levers are **1 (container grade) + 4 (solar)** — together **~<!-- BEGIN costing:ca-savings-low -->$1,500<!-- END costing:ca-savings-low -->** off the <!-- BEGIN costing:ca-capital -->$29,439<!-- END costing:ca-capital --> capital build (**~<!-- BEGIN costing:ca-savings-pct-low -->5<!-- END costing:ca-savings-pct-low -->%**), plus ~$100–200 of valve value-engineering (#5). Everything else is settled: lever 2 **kept 304 SS** (decision), lever 3 **already 1×100 Ah**.
+After the material decisions, the only still-**available** build-savings levers are **1 (container grade) + 4 (solar)** — together **~<!-- BEGIN costing:ca-savings-low -->$1,500<!-- END costing:ca-savings-low -->** off the <!-- BEGIN costing:ca-capital -->$29,454<!-- END costing:ca-capital --> capital build (**~<!-- BEGIN costing:ca-savings-pct-low -->5<!-- END costing:ca-savings-pct-low -->%**), plus ~$100–200 of valve value-engineering (#5). Everything else is settled: lever 2 **kept 304 SS** (decision), lever 3 **already 1×100 Ah**.
 
 > **Derivation note.** Lever 1 (container grade), lever 5 (solar), and the roll-up total +
 > percentage are computed in `costing.py` — container is a true CW − WWT subtraction off the

diff --git a/docs/funding-proposal.md b/docs/funding-proposal.md
@@ -86,7 +86,7 @@ The container moves by commercial hire tilt-bed truck. No CDL is required for th
 ## 6. Budget and Use of Funds
 All figures are drawn from the [full cost breakdown](project-cost-breakdown.md). Per-item procurement details with supplier URLs are in the [master shopping list](master-shopping-list.md). Three funding levels are presented to allow partial or phased support.
 
-### Level 1 — Core Build (~<!-- BEGIN costing:fund-l1-total -->$34,588<!-- END costing:fund-l1-total -->, Standard scenario)
+### Level 1 — Core Build (~<!-- BEGIN costing:fund-l1-total -->$34,613<!-- END costing:fund-l1-total -->, Standard scenario)
 Everything required to operate the camera for a first deployment. Figures are the Standard (Mid) column of the [cost breakdown](project-cost-breakdown.md); Low–High scenarios span ~<!-- BEGIN costing:fund-scenario-span -->$28,000–$40,000<!-- END costing:fund-scenario-span -->.
 
 <!-- BEGIN costing:funding-level1 -->
@@ -100,14 +100,14 @@ Everything required to operate the camera for a first deployment. Figures are th
 | Housed revolving-door light trap (plastic-skin Ø800 housing + C-shell drum, bearings, seals, fabrication) | $3,667 |
 | Processing water system (tray, spray bar, 3-stage filtration, IBC stacking frame) | $7,633 |
 | Power & electrical (600W solar · LiFePO4 · MPPT · distribution · protection · lighting) | $3,472 |
-| Ventilation & cooling (2 fans · evap cooler + 12V→120V inverter · light-safe ducting) | $828 |
+| Ventilation & cooling (2 fans · evap cooler + 12V→120V inverter · light-safe ducting) | $843 |
 | Perimeter walkway (4 sections + drum-exit punch-out) | $2,619 |
 | Panel swing pivot + fixed door frame (Ø89 post + bearings + cage + wall stays + door frame) | $1,490 |
 | Hinged panel structure (stepped frame + HDPE skins + Al core + EPDM + latches + B2 bay + handle) | $1,282 |
 | Chemistry prep shelf (fold-down UV-white ply board + hinge/stays + tap trunk extension) | $275 |
 | Cyanotype chemistry + muslin substrate (50-print run, Standard tier) | $1,680 |
-| Contingency (10%) | ~$3,140 |
-| **Level 1 total** | **~$34,588** |
+| Contingency (10%) | ~$3,150 |
+| **Level 1 total** | **~$34,613** |
 <!-- END costing:funding-level1 -->
 
 ### Level 2 — First Deployment (+$1,025–2,750)
@@ -130,7 +130,7 @@ Video documentation, process photography, and initial publication:
 | Publication design (zine or catalog, print run) | $500–1,500 |
 | **Level 3 total** | **~$2,000–5,000** |
 
-**Combined (Levels 1+2+3):** ~<!-- BEGIN costing:fund-combined -->$37,613–42,338<!-- END costing:fund-combined --> for a complete first-year program with three public deployments, 50-print edition, and full documentation.
+**Combined (Levels 1+2+3):** ~<!-- BEGIN costing:fund-combined -->$37,638–42,363<!-- END costing:fund-combined --> for a complete first-year program with three public deployments, 50-print edition, and full documentation.
 
 ## 7. Timeline
 A 12-month build and deployment program:

diff --git a/docs/master-shopping-list.md b/docs/master-shopping-list.md
@@ -21,11 +21,11 @@ Items are grouped by build area. Source documents are cross-referenced in each s
 | 7b. Perimeter walkway (4 sections + drum-exit punch-out) | $2,155 | $3,107 |
 | 7c. Hinged panel structure (stepped frame + HDPE skins + Al core + EPDM + cam latches + B2 bay + pull handle) | $1,195 | $1,368 |
 | 7d. Chemistry prep shelf (fold-down UV-white ply board + hinge/stays + TAP-01 trunk extension) | $268 | $280 |
-| 8. Cooling & ventilation | $768 | $918 |
+| 8. Cooling & ventilation | $783 | $933 |
 | 9. Printmaking chemistry — cyanotype, 50 prints (Low = Lean, High = Rich tier) | $1,230 | $3,040 |
 | 10. Printmaking tools & consumables | $350 | $500 |
 | 11. Safety & PPE | $120 | $180 |
-| **TOTAL (base build + 50-print run)** | **~$27,744** | **~$36,614** |
+| **TOTAL (base build + 50-print run)** | **~$27,759** | **~$36,629** |
 <!-- END costing:master-summary -->
 
 *Optional additions: lens plate (+$400–$1,500), self-haul transport (+$30,000–$40,000).*
@@ -127,9 +127,10 @@ indicative low–high estimates — get quotes before ordering.
 | [200mm insulated flex duct](https://www.homedepot.com/p/314398619) (23-183-08-25) | 1 coil | Home Depot | ventilation | $63 |
 | [Duct collar + hose clamp](https://www.homedepot.com/p/100211540) (DSCF8) | 1 set | Home Depot | ventilation | $16 |
 | [Evaporative cooler](https://www.homedepot.com/p/321429692) (MC18MT) | 1 ea | Home Depot | ventilation | $109 |
+| Fan-A grille mounting plate — 3mm aluminum over the corrugated wall | 1 ea | Metal Supermarkets | ventilation | $15–$30 |
 | [Weatherproof duct cap](https://www.homedepot.com/p/100396923) (8DC) | 1 ea | Home Depot | ventilation | $12 |
 | Weatherproof louvre grille, 6in (Fan A + Fan B exterior vents) | 2 ea | Home Depot | ventilation | $20–$40 |
-| **ducting-ventilation subtotal** | | | | **$285–$305** |
+| **ducting-ventilation subtotal** | | | | **$300–$335** |
 
 ### electrical-distribution
 
@@ -502,7 +503,7 @@ indicative low–high estimates — get quotes before ordering.
 |----------|-----------|-------|-----------|
 | Local fab | 21 | adhesives-finishes, fabrication-labor, steel-structural | $2,144–$3,505 |
 | containermgt.com | 1 | container | $2,000–$3,500 |
-| Metal Supermarkets | 23 | aluminum, fasteners-hardware, steel-structural | $2,233–$3,073 |
+| Metal Supermarkets | 24 | aluminum, ducting-ventilation, fasteners-hardware, steel-structural | $2,248–$3,103 |
 | Amazon | 32 | adhesives-finishes, aluminum, bearings-motion, ducting-ventilation, electrical-distribution, electrical-power, fabric-textile, fasteners-hardware, plumbing-fittings, tools-safety, water-equipment | $2,007–$2,019 |
 | McMaster-Carr | 83 | adhesives-finishes, aluminum, bearings-motion, fasteners-hardware, seals-gaskets, steel-structural | $1,981–$1,989 |
 | Online Metals | 6 | aluminum, stainless-sheet, steel-structural | $1,229–$1,939 |

diff --git a/docs/TODO.md b/docs/TODO.md
@@ -46,7 +46,12 @@ Sheet 16 draws the **pull-out corner apron** (fixed full-width base + removable 
 
 ## 📐 Corrugated-wall rendition — walkway square-rib → trapezoid (optional) (2026-11-18)
 
-- [ ] **Electrical Sheets 9 + 6 DONE** (2026-11-18): both now draw the corrugation as flat-topped **trapezoids** (Sheet 9 to-scale with a valley centered on the bolt; Sheet 6 a pitch-compressed schematic flute). A cross-generator inventory found **no other sharp-peak/triangle corrugation drawings**. **Remaining candidate (not a peak, lower priority):** `generate_walkway_diagram.py` `sheet2` (~L598-635) and `sheet7` (~L1924-1952) draw the wall as a **SQUARE hollow-rib box** (vertical webs, `CORR_DEPTH=38`, `WALL_T=1.6`) — a duplicated block; convert the vertical webs to sloped trapezoid webs + refactor to a shared helper if the square rib should match the new rendition. All other wall sections (film-plane ×4, ibc-frame ×2, pinhole §3, ventilation, shelf) are plain FLAT SLABS labeled "corrugated" with no profile drawn — not peaks; only relevant if the project later wants to ADD a profile there.
+- [ ] **Electrical Sheets 9 + 6 DONE** (2026-11-18): both now draw the corrugation as flat-topped **trapezoids** (Sheet 9 to-scale with a valley centered on the bolt; Sheet 6 a pitch-compressed schematic flute). A cross-generator inventory found **no other sharp-peak/triangle corrugation drawings**. Walkway Sheets 2/7 (square hollow-rib box) and the flat-slab sections (film-plane ×4, ibc-frame ×2, shelf) are **OK as-is** (owner, 2026-11-18): they show across the full corrugation depth, which is correct since the exact bolt/crest location isn't known until the actual container is purchased.
+
+## 🔧 Ventilation grille + pinhole adapter — exterior mounting plate on the corrugation (2026-11-18)
+
+- [x] **ventilation Fan-A grille exterior AL plate — DONE** (2026-11-18). Added a flat ~3mm aluminum plate (frame, open at the Ø150 hole) the grille screws to, TEK self-drilled to the corrugation crests + sealed over the valleys (no through-bolt). Cascaded: `parts.py` (`fan-grille-al-plate`, +$15/$30 ventilation) → `costing.py` (§5b + EXPECTED ventilation/grand) → `generate_ventilation_diagram.py` sheet 2 (drawn) → ventilation-report §4.2. Gates pass.
+- [ ] **pinhole-disc-holder-sheet3 — drawing fix** (owner, drawing only — the Ø240 S275 adapter design is fine): sheet 3 draws the wall as a flat slab; update it to show the trapezoid corrugation profile with the adapter welded to the crests.
 
 ## ⏳ Light-trap parts-quote — pending research (2026-08-24)
 

diff --git a/docs/ventilation-report.md b/docs/ventilation-report.md
@@ -69,7 +69,7 @@ Both fans are 12V DC, **150×150×50mm axial panel fans** (e.g. GDSTIME/Wathai 1
 
 ### 4.2 Fan A — Sealed End Wall Exhaust
 
-Fan A is flush-mounted in a wall penetration at the sealed end wall, in the plumbing corridor directly below the X1 fill port, the <!-- BEGIN fact:corridor_width_mm -->270<!-- END fact:corridor_width_mm -->mm corridor between the two 1,000L tote columns is the only full-height clear channel at this end. Its 300mm baffle duct projects into the clear corridor, clearing the X1 fill trunk above. The fan body sits inside a light-safe baffle duct (see §4.4) bolted to the interior face of the wall. A weatherproof louvre grille on the exterior face protects the penetration from rain and debris. The fan, duct, and grille are permanently installed — no removal is required for mode conversion or transport.
+Fan A is flush-mounted in a wall penetration at the sealed end wall, in the plumbing corridor directly below the X1 fill port, the <!-- BEGIN fact:corridor_width_mm -->270<!-- END fact:corridor_width_mm -->mm corridor between the two 1,000L tote columns is the only full-height clear channel at this end. Its 300mm baffle duct projects into the clear corridor, clearing the X1 fill trunk above. The fan body sits inside a light-safe baffle duct (see §4.4) bolted to the interior face of the wall. A weatherproof louvre grille on the exterior face protects the penetration from rain and debris. Because a flat grille cannot seat against the corrugated side wall, it mounts to a flat **~3mm aluminum plate** on the exterior face: the plate is TEK self-drilled to the corrugation **crests** and sealed with a silicone/flashing bead over the valleys (no through-bolt — the corrugated wall can't be cleanly bolted through), and the grille screws to the flat plate (Sheet 2). The fan, duct, and grille are permanently installed — no removal is required for mode conversion or transport.
 
 **Wiring:** Fan A's wire run routes from the fuse block along the ceiling cable trunking to the sealed end wall, then drops down the plumbing corridor to the fan. The entire run is inside the container — no flex cable or weatherproof connectors are needed.
 
